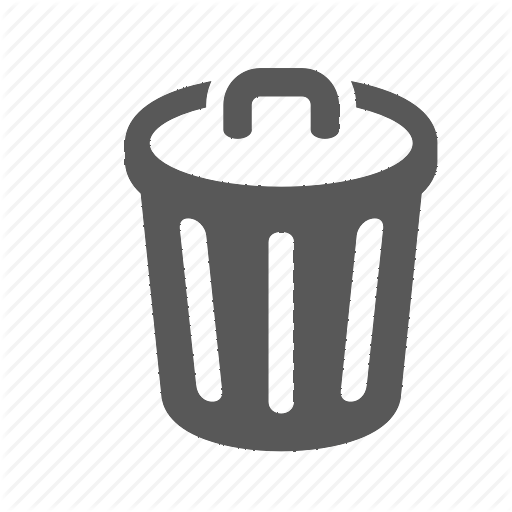
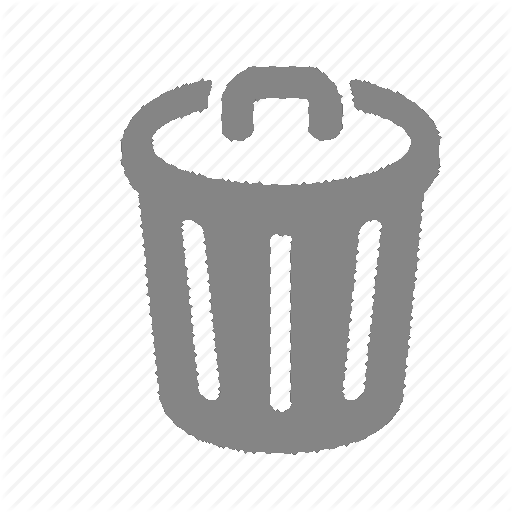
Fixade soptunnan bland annat

Changed region(s): [[0.2188, 0.125, 0.875, 0.9062]]

diff --git a/src/classes/VarukorgItem.java b/src/classes/VarukorgItem.java
@@ -185,7 +185,7 @@ public class VarukorgItem extends AnchorPane {
 
 
     public void trashCanMouseExited(){
-            trashCanImg.setImage(new Image("images/trash_can_icon.png"));
+            trashCanImg.setImage(new Image(getClass().getClassLoader().getResourceAsStream("images/trash_can_icon.png")));
     }
 
 }
